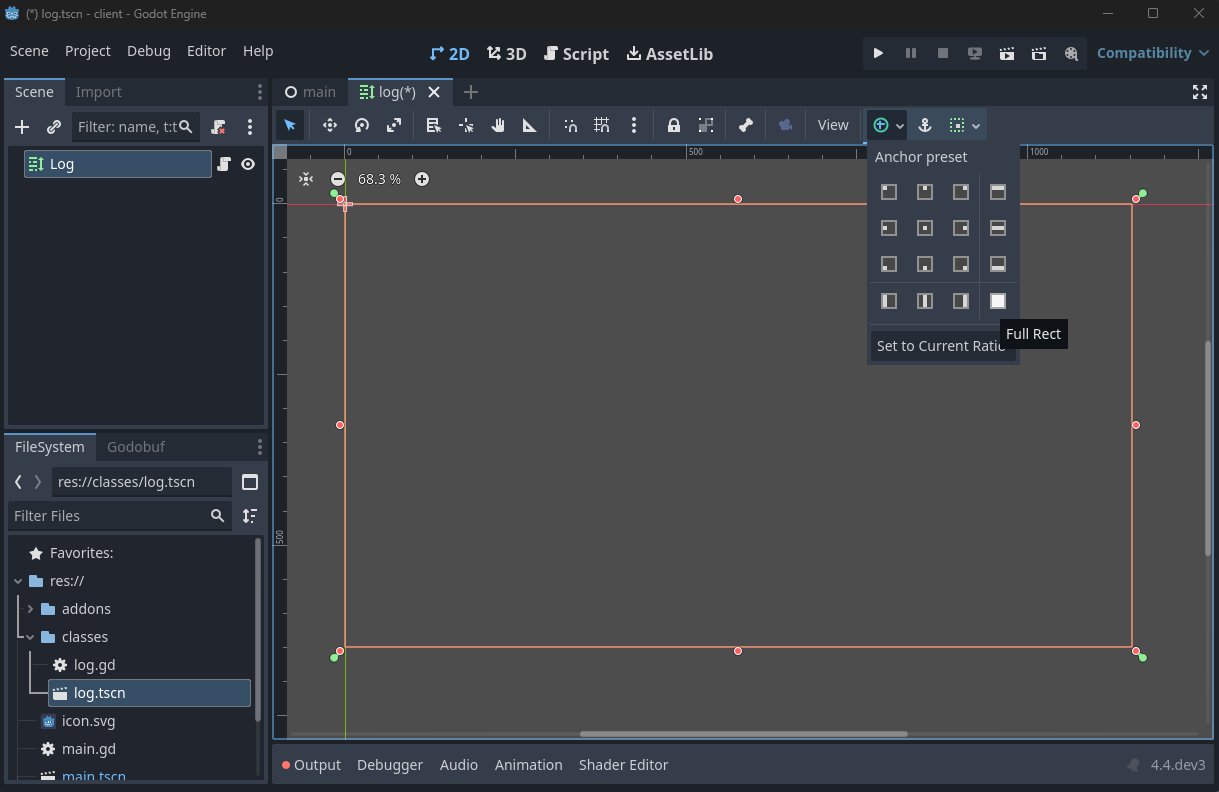
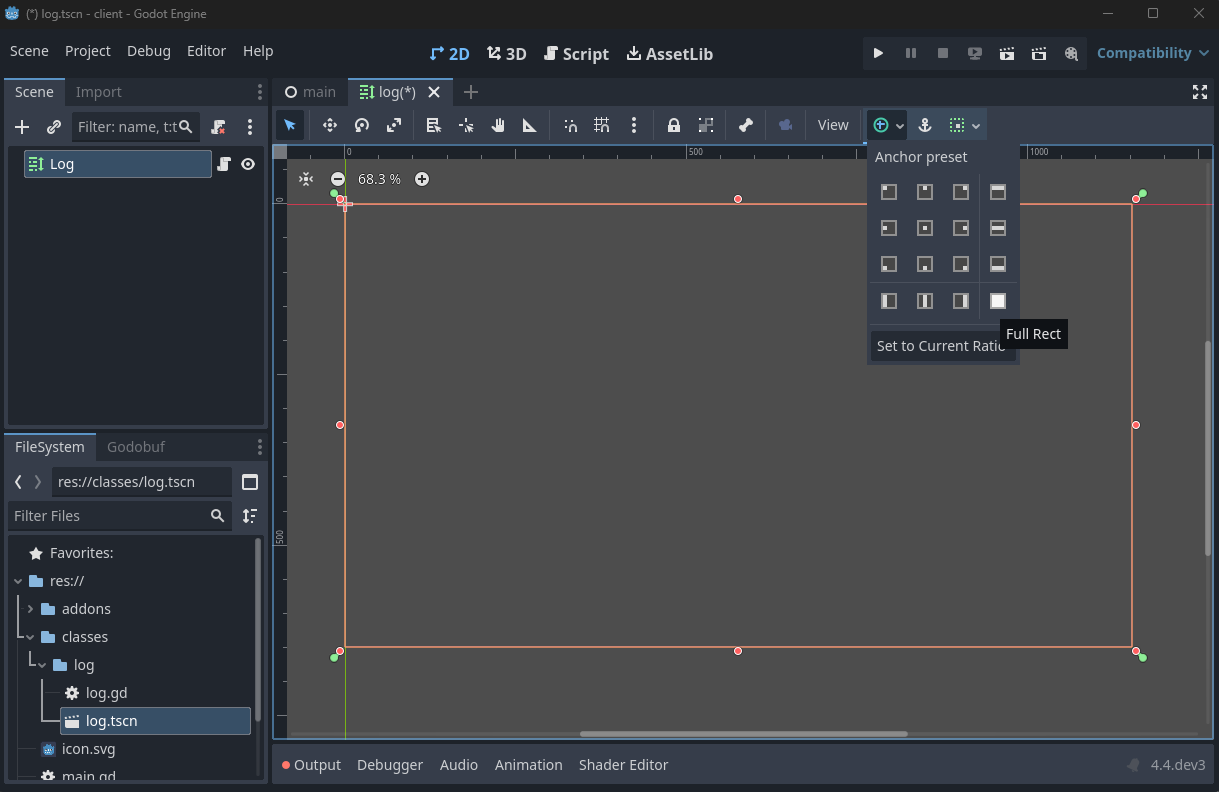
Refactor project structure by moving log files into a dedicated log directory and update dictionary entries for consistency

Changed region(s): [[0.0312, 0.8182, 0.2182, 1.0]]

diff --git a/_posts/2024-11-16-godot-golang-mmo-part-9.md b/_posts/2024-11-16-godot-golang-mmo-part-9.md
@@ -6,4 +6,153 @@ redditurl:
 
 We are approaching the end of this series, having just finished [allowing players to eat each other and grow in size](/2024/11/15/godot-golang-mmo-part-8), but we are still lacking a permanent way for players to see how they rank against others. I think it's time to add a hiscore leaderboard to our game, so let's get started!
 
+## The plan
+
+Our goal by the end of this part is to have a hiscore leaderboard that players can access from the main menu. It will look something like this (though the design will be a bit rough until we get a chance to polish everything in an upcoming part):
+![Hiscore leaderboard](/assets/css/images/posts/2024/11/16/hiscore-leaderboard.png)
+
+To pull this off, we are going to need a few things, which we will tackle in order:
+
+1. A new class in Godot to format and display the leaderboard. This can be versatile enough to display both in-game and in the main menu
+2. A player's best score needs to be saved to the database, so a new table for player information, associated with the user who is playing
+3. New SQL queries to save and fetch players' hiscores
+4. New protobuf messages to handle requesting and sending hiscores
+5. A new state in the server to handle hiscore requests
+6. A new state in the client to display the hiscore leaderboard and handle hiscore responses
+
+We have a lot of work ahead of us, but we are going to use everything we have learned so far to make this happen. Let's get started!
+
+## The leaderboard class
+
+Similar to the `Log` class we created back in <a href="/2024/11/09/godot-golang-mmo-part-3#building-a-custom-log-scene-in-godot" target="_blank">§03</a>, we are going to create a new class in Godot to handle the leaderboard. The class itself won't be responsible for fetching any information from the server, but it will be a place for us to store data into and have it display in a table format. This means we can put it into the game straight away to keep track of live, *current* scores, and then later we will use it in the main menu to display players' *best* scores.
+
+1. Create a new folder at `res://classes/hiscores/`
+2. Right-click the new `hiscores` folder and select **Create new...** and then **Scene**
+3. Enter *hiscores** as the name of the scene
+4. Choose **ScrollContainer** as the root node
+5. Click **OK**
+
+![Hiscores scene](/assets/css/images/posts/2024/11/16/hiscores-scene.png)
+
+We will set the scroll container to take up the screen's entire area, but when we add it to other scenes, we can resize it as needed. To do this, simply use the **Full Rect** anchor preset at the top of the scene editor when you have the root node selected.
+
+Also ensure the **Shrink Begin** and **Expand** options are selected for the **Vertical** container sizing option in the inspector (under "Layout"), or simply use the handy **Sizing settings** button at the top of the scene editor to set it. This will allow the hiscore board to be resized and positioned correctly when we add it to other scenes.
+
+![Hiscores scene full rect](/assets/css/images/posts/2024/11/16/hiscores-scene-full-rect.png)
+
+Now go ahead and add the following nodes so that the scene tree looks like this:
+
+- **ScrollContainer** - called `Hiscores`
+  - **VBoxContainer**
+    - **HBoxContainer**
+      - **Label** - called `Name`
+      - **Label** - called `Score`
+
+Right now, everything is all clumped together, so let's fix the layout.
+
+1. Select the **VBoxContainer** node and choose the **Fill** and **Expand** options for both horizontal and vertical alignment in the **Container Sizing** section of the inspector (under "Layout"), or simply use the handy **Sizing settings** button at the top of the scene editor.
+   ![VBoxContainer sizing settings](/assets/css/images/posts/2024/11/16/vboxcontainer-sizing-settings.png)
+
+2. For the **HBoxContainer**, simply choose **Shrink Begin** for the **Vertical** container size, and don't change anything else. This will force each row to stay the same height, one after the other.
+
+3. The **Name** label should have **Fill** and **Expand** selected for the horizontal alignment, so that it pushes the adjacent score label to the right. Also set the **Custom minimum size**'s **x** value (also under "Layout" in the inspector) to 150px to give it a bit of space to start out.
+    ![Name label sizing settings](/assets/css/images/posts/2024/11/16/name-label-sizing-settings.png)
+
+4. Finally, set the **Score** label to **Shrink End** for the horizontal alignment, so that it doesn't take up any more space than it needs to.
+
+If you enter some dummy data into the labels, and duplicate the **HBoxContainer** a few times, you should see something like this:
+![Hiscores scene with dummy data](/assets/css/images/posts/2024/11/16/hiscores-scene-dummy-data.png)
+
+Remove the duplicate **HBoxContainer** nodes if you added them, and remember to save the scene. Let's add a new script at `res://classes/hiscores/hiscores.gd` and attach it to the root node.
+
+```directory
+/client/classes/hiscores/hiscores.gd
+```
+
+```gdscript
+class_name Hiscores
+extends ScrollContainer
+
+var _scores: Array[int]
+
+@onready var _vbox := $VBoxContainer as VBoxContainer
+@onready var _entry_template := $VBoxContainer/HBoxContainer as HBoxContainer
+
+func _add_hiscore(name: String, score: int) -> void:
+    _scores.append(score)
+    _scores.sort()
+    var pos := len(_scores) - _scores.find(score) - 1 # -1 to keep real entries above the template
+    
+    var entry: HBoxContainer = _entry_template.duplicate()
+    var name_label: Label = entry.get_child(0)
+    var score_label: Label = entry.get_child(1)
+    
+    _vbox.add_child(entry)
+    
+    _vbox.move_child(entry, pos)
+    
+    name_label.text = name
+    score_label.text = str(score)
+    
+    entry.show()
+```
+
+So far, the script isn't too complicated. We are internally keeping track of scores in an array, which we sort each time a new score is added. This ensures that the hiscore entries are added in the correct order. The private `_add_hiscore` function is responsible for doing just that: it takes a name and a score, adds it to the internal array, finds the position in the scene tree where it should be inserted, then puts a modified copy of the entry template there.
+
+We will not be calling this function externally, however, as we are going to instead call something more versatile: `set_hiscore`. 
+
+```gdscript
+func set_hiscore(name: String, score: int) -> void:
+    remove_hiscore(name)
+    _add_hiscore(name, score)
+```
+
+This function will remove any existing hiscore entry for the given name, then add the new one. This way, we can update a player's score without having to worry about duplicates. But we obviously need to add the `remove_hiscore` function as well:
+
+```gdscript
+func remove_hiscore(name: String) -> void:
+    for i in range(len(_scores)):
+        var entry := _vbox.get_child(i)
+        var name_label := entry.get_child(0)
+        
+        if name_label.text == name:
+            _scores.remove_at(len(_scores) - i - 1)
+            
+            entry.queue_free()
+            return
+```
+
+This very simple function iterates through the hiscore entries, finds the one with the matching name, removes it from the internal array, then removes it from the scene tree.
+
+Let's test this out by adding our new hiscores scene to the `Connected` scene somewhere. I added it to the bottom of the `Connected` scene's **VBoxContainer**, just below the `Log` node. 
+> Note that, unlike the `Log` node, we need to click and drag the `Hiscores` scene from the file system to the scene tree to add the entire scene, along with its children. If you simply try and add a new **Hiscores** node, it will not come with any of the children we set up in the scene editor, therefore it will not work. We were able to get away with this for the `Log` node because it was a single node with no children.
+
+Also be sure to set the **Custom Minimum Size**'s **y** value (under "Layout" in the inspector) to 200px to allow some entries to be visible.
+![Hiscores test scene](/assets/css/images/posts/2024/11/16/hiscores-test-scene.png)
+
+Then, I added the following test code to the `_ready` function in `res://states/connected/connected.gd`:
+
+```directory
+/client/states/connected/connected.gd
+```
+
+```gdscript
+func _ready() -> void:
+    # ...
+    
+    var _hiscores := $UI/VBoxContainer/Hiscores as Hiscores
+    _hiscores.set_hiscore("Bob Barker", 10000)
+    _hiscores.set_hiscore("Adam Sandler", 5000)
+    _hiscores.set_hiscore("Tristan", 5001)
+```
+
+Now, when I run the game, I should expect to see "Bob Barker" at the top of the hiscore list, followed by "Tristan" and then "Adam Sandler", which is half what I see. I also see the placeholder text at the bottom of the list, which obviously isn't what we want. 
+![Hiscores scene with test data](/assets/css/images/posts/2024/11/16/hiscores-scene-test-data.png)
+
+Let's fix that by simply clicking the 👁️ icon to the right of the **HBoxContainer** template in the scene editor of the **Hiscores** scene. This will hide the placeholder entry and make everything right with the world.
+![Hiscores scene with test data hidden](/assets/css/images/posts/2024/11/16/hiscores-scene-test-data-hidden.png)
+
+Make sure to remove the test code from the `_ready` function in `res://states/connected/connected.gd`, and remove the **Hiscores** scene from the `Connected` scene, as that was just a test. Let's actually add it to the game now.
+
+## Adding live scores to the game
 *Coming soon...*

diff --git a/_posts/2024-11-09-godot-golang-mmo-part-3.md b/_posts/2024-11-09-godot-golang-mmo-part-3.md
@@ -445,8 +445,8 @@ That's much better! Now that we got that out the way, let's get back to the clie
 
 We will create a "Log" class which will be a rich text label with helper functions. This will be the place where events, messages from the server, or chat messages can be logged, and it will make an appearance in quite a few places in the final game.
 
-1. Create a new folder in the Godot FileSystem called `classes`
-2. Right-click the new folder and select **Create new...** and then **Scene**
+1. Create a new folder in the Godot FileSystem at `res://classes/log/`
+2. Right-click the new `log` folder and select **Create new...** and then **Scene**
 3. Enter **log** as the name of the scene
 4. Choose **RichTextLabel** as the root node
 5. Click **OK**
@@ -459,10 +459,10 @@ Also be sure to enable **BBCode** in the **Inspector** panel on the right-hand s
 
 Also enable **Scroll Active** and **Scroll Following** in the **Inspector** panel. This will ensure that the log will always scroll to the bottom when new messages are added.
 
-Now we need to add some functionality to this scene. Attach a new script at `res://classes/log.gd` to the root `Log` node and paste the following code:
+Now we need to add some functionality to this scene. Attach a new script at `res://classes/log/log.gd` to the root `Log` node and paste the following code:
 
 ```directory
-/client/classes/log.gd
+/client/classes/log/log.gd
 ```
 ```gd
 class_name Log
@@ -784,10 +784,12 @@ And just in case you need it, this is what the entire project structure should l
 │   │
 │   ├───addons/
 │   │   └───protobuf/
-│   └───classes/
-│           log.gd
-│           log.tscn
-│
+│   │
+│   ├───classes/
+│   │   └───log/
+│   │           log.gd
+│   │           log.tscn
+│   │
 ├───server/
 │   │   go.mod
 │   │   go.sum

diff --git a/_posts/2024-11-15-godot-golang-mmo-part-8.md b/_posts/2024-11-15-godot-golang-mmo-part-8.md
@@ -6,6 +6,12 @@ redditurl:
 
 Welcome back! In the [last part](/2024/11/14/godot-golang-mmo-part-7), we added spores to our game, and gave players the opportunity to eat them. Today, we are going to expand upon that by letting the server decide if the player should grow after eating spores, then tell all other players about the change. This inherently will give rise to the concept of scores, and combined with the possibility for players to eat each other, we will have a competitive game.
 
+Here is a preview of what we will achieve today:
+<video controls>
+  <source src="/assets/css/images/posts/2024/11/15/ch8-preview.webm" type="video/webm">
+  Your browser does not support the video tag.
+</video>
+
 ## Growing the player
 
 First, we left off with the player eating spores and telling the server about it, but the server isn't doing anything with that information. It would be great if the server could validate the player's actions, and either accept or reject them. This way, we can prevent cheating, and make sure that the game is fair for everyone. If the changes are accepted, the server will then broadcast the changes to all other players, for other clients to interpret and display.

diff --git a/_posts/2024-11-14-godot-golang-mmo-part-7.md b/_posts/2024-11-14-godot-golang-mmo-part-7.md
@@ -528,8 +528,9 @@ We will be following this workflow for most of the features we add to the game f
 │   │       protobuf/
 │   │
 │   ├───classes/
-│   │       log.gd
-│   │       log.tscn
+│   │   └───log/
+│   │           log.gd
+│   │           log.tscn
 │   │
 │   ├───objects/
 │   │   ├───actor/